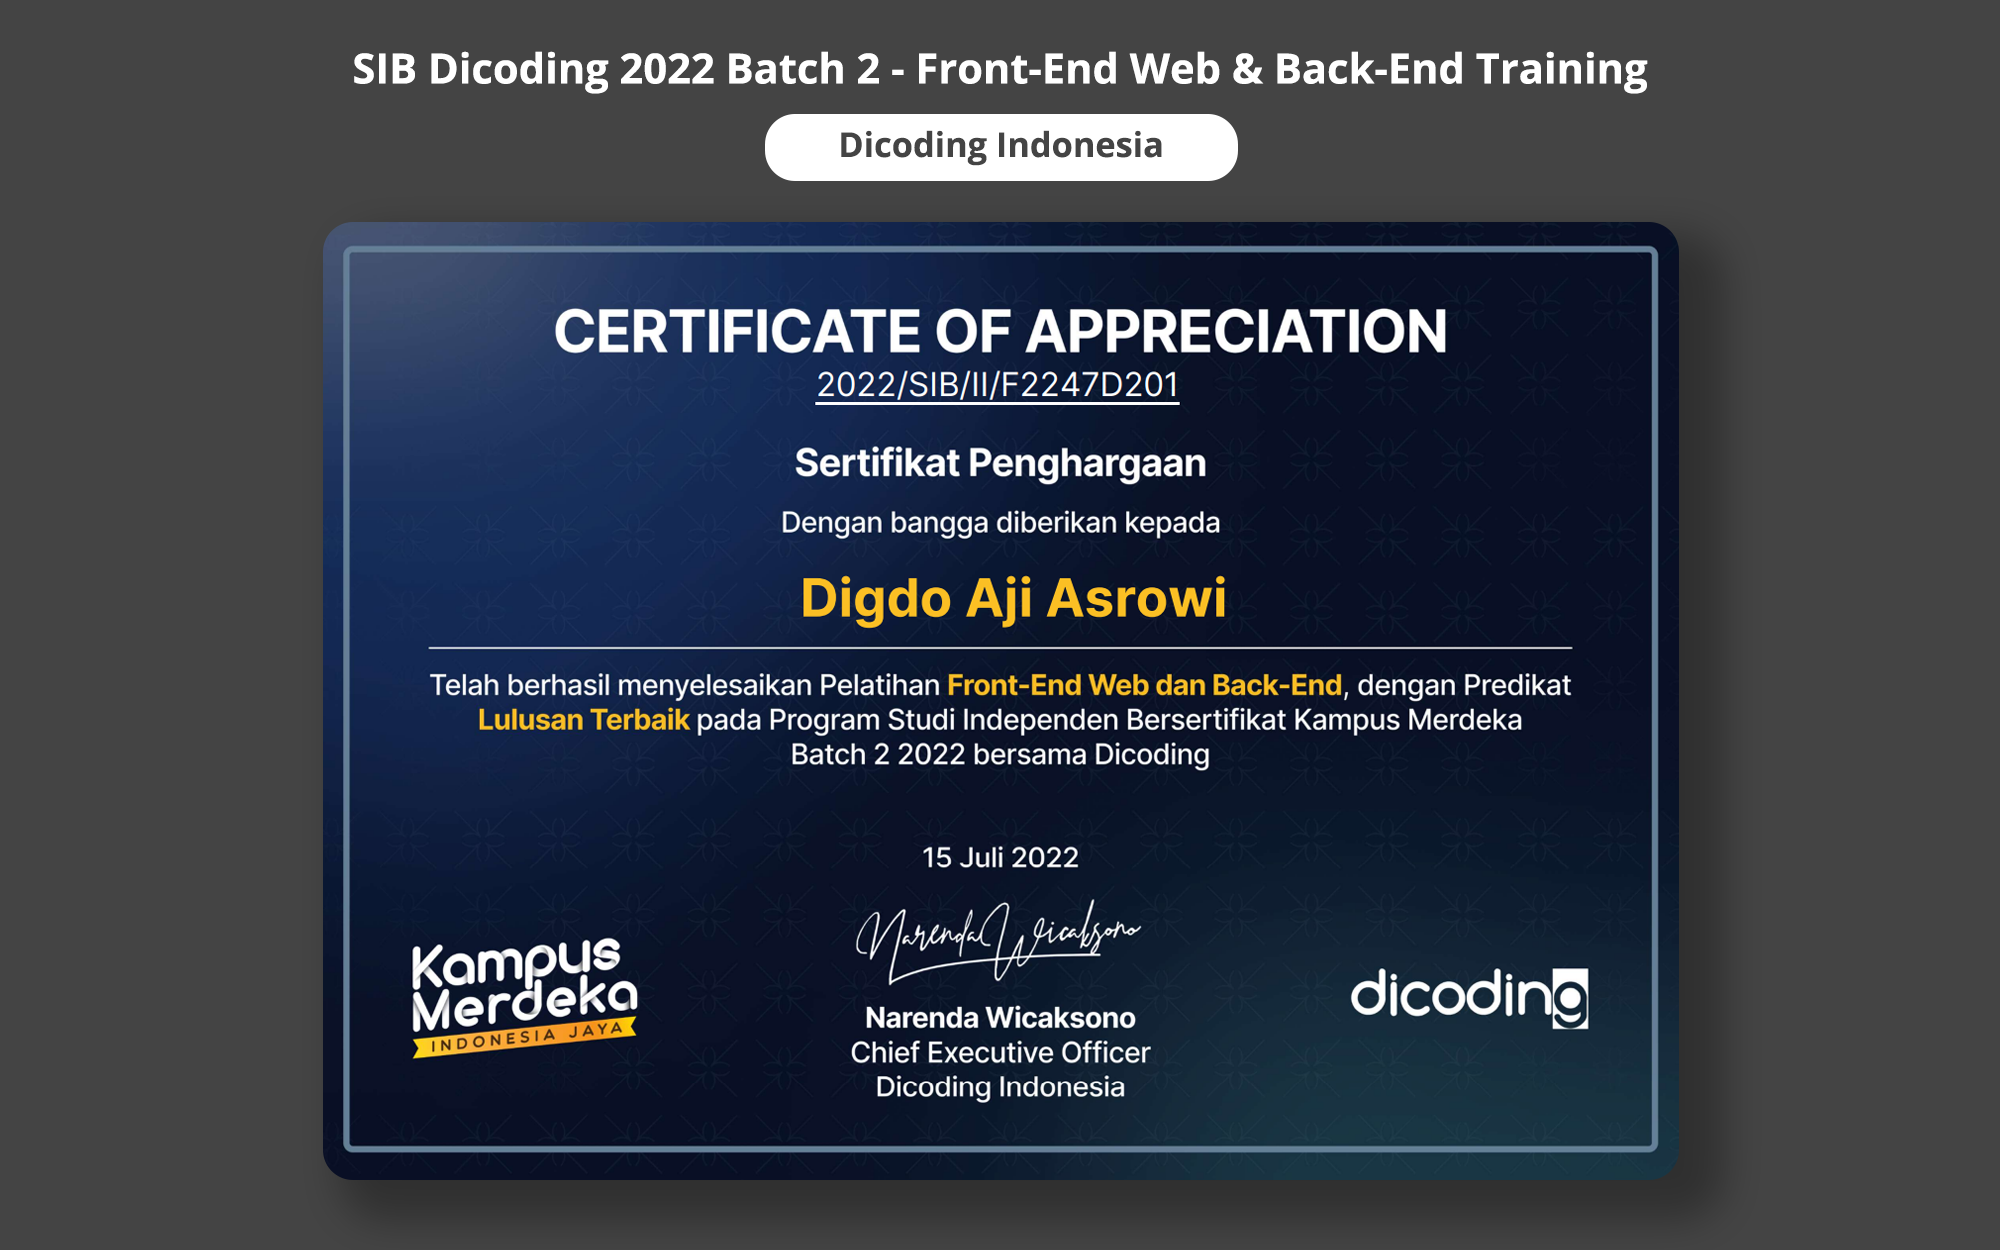
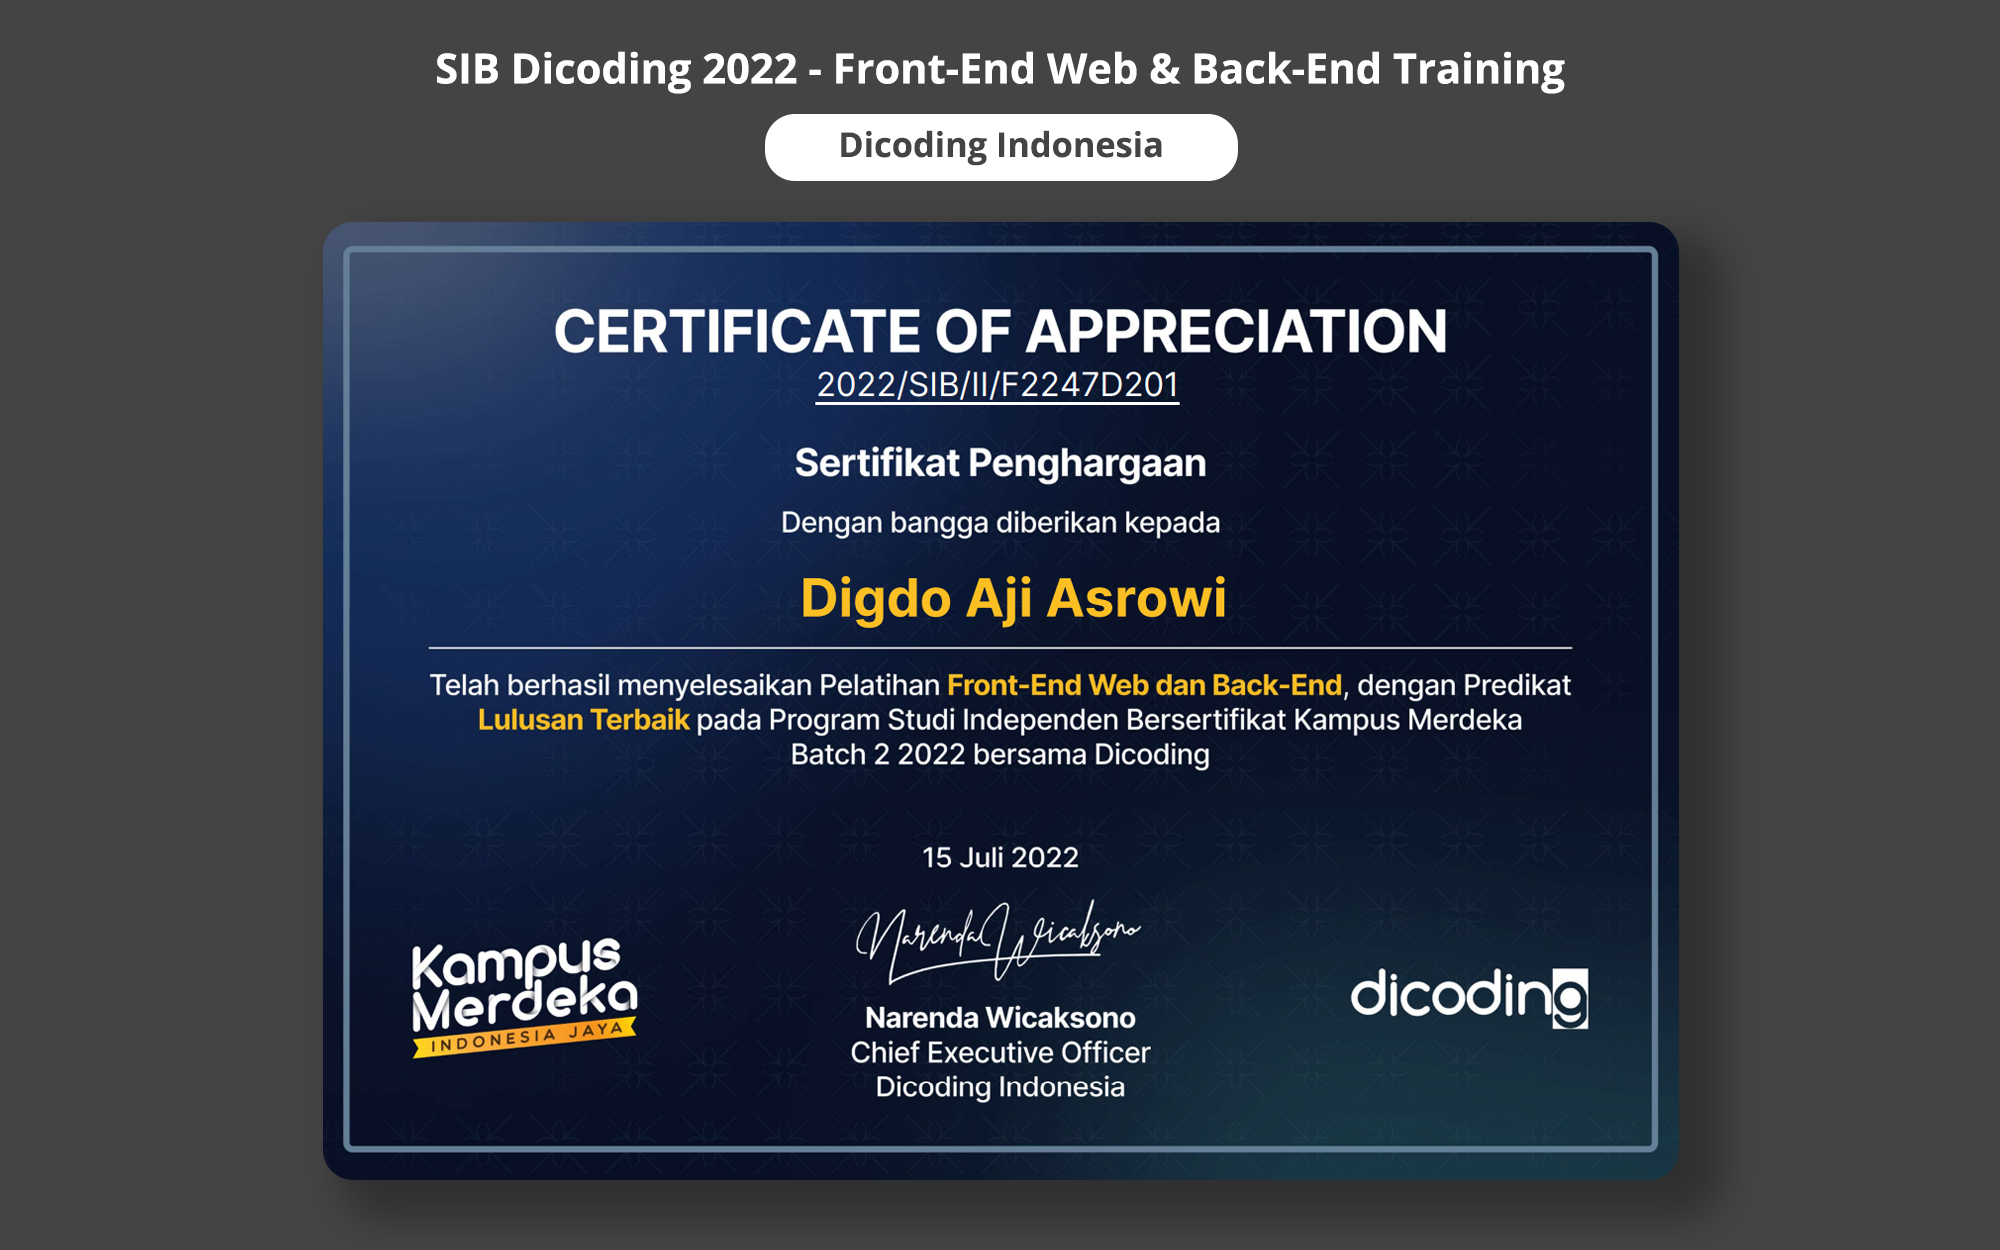
Update Name & Desc for SIB Dicoding 2022

Changed region(s): [[0.155, 0.0312, 0.837, 0.0936]]

diff --git a/index.html b/index.html
@@ -277,7 +277,7 @@
                     <h4 class="lang">Front-End Web & Back-End</h4>
                     <h5>Feb 2022 - Jul 2022</h5>
                     <em>
-                      <p class="lang">Studi Independen Bersertifikat Dicoding Indonesia 2022 Batch 2</p>
+                      <p class="lang">Studi Independen Bersertifikat Dicoding Indonesia 2022</p>
                     </em>
                   </div>
                 </div>
@@ -559,7 +559,7 @@
               <div class="certification-wrap">
                 <img src="assets/img/certificate/certificate-sibdicoding2022_pfewbe.png" class="img-fluid" />
                 <div class="certification-info">
-                  <h4>Dicoding - SIB Dicoding 2022 Batch 2</h4>
+                  <h4>Dicoding - SIB Dicoding 2022</h4>
                   <div class="certification-links">
                     <a href="assets/img/certificate/certificate-sibdicoding2022_pfewbe.png" data-gallery="certificationGallery" class="certification-lightbox"><i class="bx bx-zoom-in"></i></a>
                     <a href="certification-sib_dicoding2022.html" class="certification-details-lightbox" data-glightbox="type: external"><i class="bx bx-info-circle"></i></a>

diff --git a/certification-sib_dicoding2022.html b/certification-sib_dicoding2022.html
@@ -4,7 +4,7 @@
     <meta charset="utf-8" />
     <meta content="width=device-width, initial-scale=1.0" name="viewport" />
 
-    <title>Certification || SIB Dicoding 2022 Batch 2 - Front-End Web & Back-End Training</title>
+    <title>Certification || SIB Dicoding 2022 - Front-End Web & Back-End Training</title>
     <meta content="" name="description" />
     <meta content="" name="keywords" />
 
@@ -34,7 +34,7 @@
         <section class="container">
           <div class="row">
             <div class="col-lg-8">
-              <h2 class="portfolio-title">SIB Dicoding 2022 Batch 2 - Front-End Web & Back-End Training</h2>
+              <h2 class="portfolio-title">SIB Dicoding 2022 - Front-End Web & Back-End Training</h2>
 
               <div class="portfolio-details-slider swiper">
                 <div class="swiper-wrapper align-items-center">
